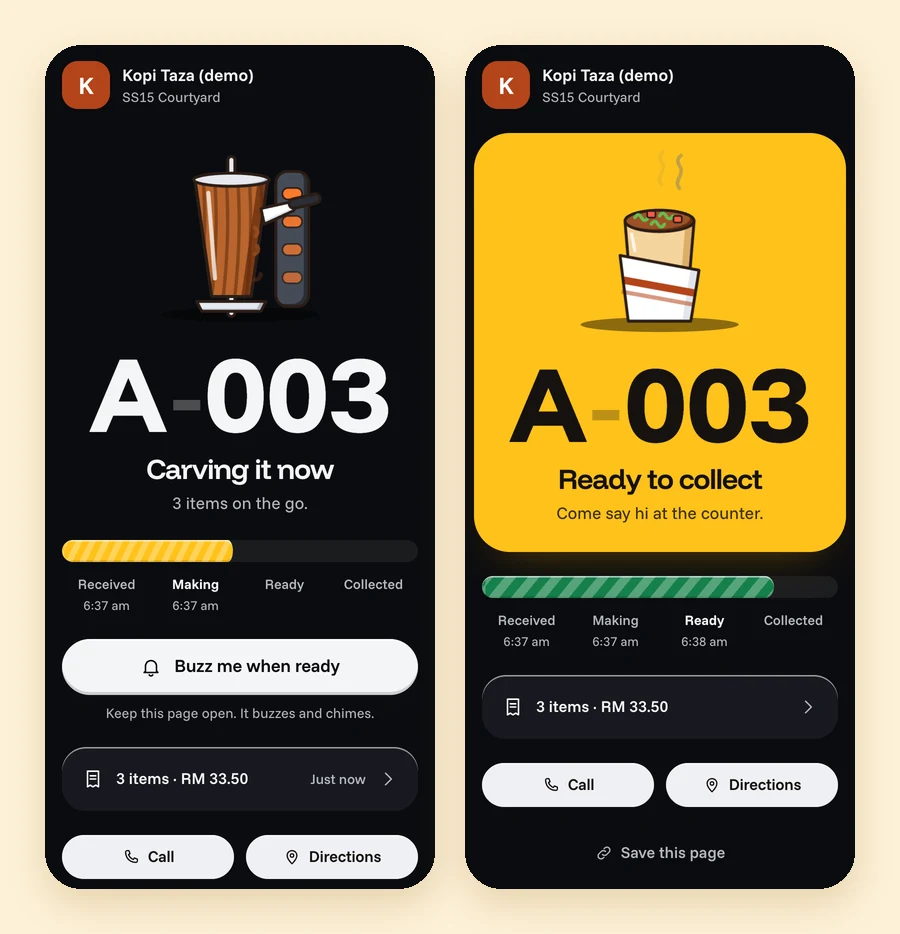
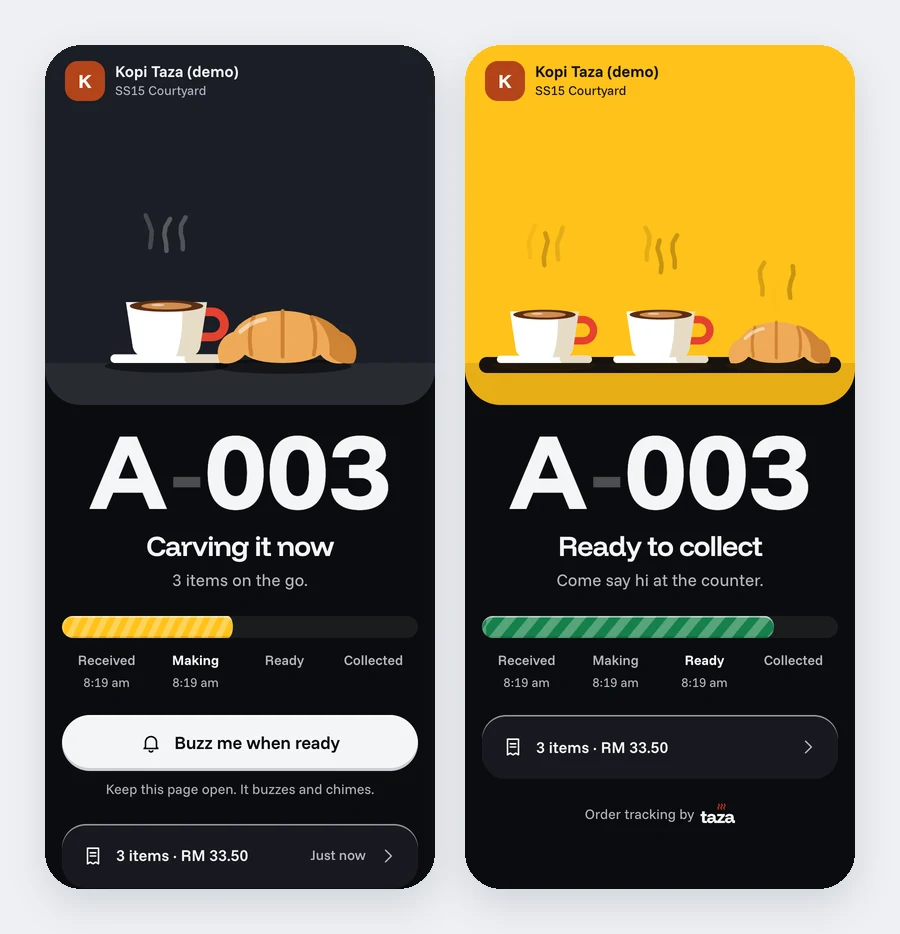
Showcase: the customer's own order on spring physics, 26 food models

diff --git a/README.md b/README.md
@@ -9,15 +9,16 @@
 
 <p align="center">Paused, not deployed. Runs end to end on a local stack. The source is private.</p>
 
-<img src="assets/screens/customer-trio.webp" alt="A customer's order page in three states: Got your order with a coffee grinder, Brewing it now with an espresso machine pouring, and Ready to collect, where the top of the page turns into a big yellow ticket with the number and a steaming cup">
+<img src="assets/screens/customer-trio.webp" alt="A customer's order page in three states: Got your order with their paper ticket on a rail, Brewing it now with their flat white and croissant being made, and Ready to collect with the whole order on a tray and the top of the page turned yellow">
 
 ## What it does
 
 Taza is the first module of a restaurant operating system: **Pickup Lite**.
 
-- **Customers follow their order live.** They scan a QR, open a link or tap an NFC tag and get a big queue number, a scene of their food being made and a progress track that fills: Received, Making, Ready, Collected. The page can buzz them when it's ready, and it keeps working through a bad connection.
-- **Each business type has its own scenes.** A burger place shows a patty on the grill, then the burger assembling. A shawarma place shows the spit being carved, then the wrap. Coffee, bubble tea, bakery, noodles and rice all have their own loops.
-- **Ready is the big moment.** The top of the page turns into a yellow ticket you can read at arm's length, the same yellow the pickup TV uses. The screen stays awake while the order is on its way, because iPhones get no notifications from a web page.
+- **Customers watch their own order.** They scan a QR, open a link or tap an NFC tag. First they see their paper ticket with the items they ordered. Then each item is built piece by piece. When it's ready, the whole order lands on a tray and the top of the page turns yellow, the same yellow the pickup TV uses.
+- **The food is alive.** Every item is a small physical model on real springs. Press it and it squashes, drag it and the layers lean, let go and it wobbles back. Then it goes still, so phones stay cool. People who turn motion off get the finished picture.
+- **26 foods so far, one recipe each.** Burgers, fries, wraps, fried chicken, pizza, sushi, dumplings, noodles, rice plates, soup, salad, coffee, tea, iced drinks, bubble tea, juice, pastries, cake, donuts and ice cream. Anything else shows as a paper bag. The menu uses the same pictures.
+- **One screen, four things.** The order, the number, one bar and one button. Call, directions and saving the page sit inside order details. The screen stays awake while the order is on its way, because iPhones get no notifications from a web page.
 - **Some places don't show the steps.** They can switch to "just when it's ready". Customers then see the same bar filled by honest time since ordering against the usual wait. It never fakes steps or fills up before staff tap Ready.
 - **Staff can take orders by voice.** In capture mode the counter says the order out loud, Taza lists it against the menu, and staff tap Ready when it's done. Orders get a Taza number or keep the business's own POS number.
 - **The business builds its own menu.** Photos, options ("no lettuce"), combos with a chosen drink, and discounted add-ons suggested after an item is added, if the owner switches that on.
@@ -27,17 +28,17 @@ Taza is the first module of a restaurant operating system: **Pickup Lite**.
 
 | Ready-only mode, then collected | Dark surface |
 |---|---|
-| <img src="assets/screens/customer-readyonly-collected.webp" alt="Left: We're on it, with the progress bar filled by time since ordering and Usually 8 min, over a grill scene. Right: Enjoy, collected, with a check badge on the cup"> | <img src="assets/screens/customer-ink.webp" alt="The same page on a near-black surface: Carving it now over a shawarma spit, then Ready to collect with the wrap on the yellow ticket"> |
+| <img src="assets/screens/customer-readyonly-collected.webp" alt="Left: We're on it, with the ticket and a bar filled by time since ordering. Right: Enjoy, collected, with a check badge over the order"> | <img src="assets/screens/customer-ink.webp" alt="The same page on a near-black surface: the order being made, then Ready to collect on the yellow band"> |
 
-<p align="center"><img src="assets/gifs/customer-tour.gif" width="300" alt="Recorded tour: an order goes from Got your order to On the grill now to Ready to collect, the burger stacking and the page turning yellow"></p>
+<p align="center"><img src="assets/gifs/customer-tour.gif" width="300" alt="Recorded tour: two flat whites and a croissant go from the paper ticket, to being made one by one, to landing on the tray as the page turns yellow"></p>
 
-## Every kind of counter
+## Every food on the menu
 
-<img src="assets/screens/scenes.webp" alt="Scene gallery: six business types, each with received, making, ready and collected states">
+<img src="assets/screens/scenes.webp" alt="Gallery of all 26 food models, and each business type's sample order">
 
 ## Setting up a business
 
-<img src="assets/gifs/what-do-you-serve.gif" alt="Recorded tour of the setup step What do you serve: picking Burgers, Shawarma, Bubble tea, Noodles and rice and Bakery, each tile starting its making scene">
+<img src="assets/gifs/what-do-you-serve.gif" alt="Recorded tour of the setup step What do you serve: picking Burgers, Shawarma, Bubble tea, Noodles and rice and Bakery, each with its own food model">
 
 | Each step or just ready | Add your menu | Make the page yours |
 |---|---|---|
@@ -54,7 +55,7 @@ Taza is the first module of a restaurant operating system: **Pickup Lite**.
 - **Backend:** .NET 10, ASP.NET Core minimal APIs as a modular monolith (organization, identity, entitlements, catalog, ordering, tracking, branding, NFC, board, onboarding). EF Core 10 on PostgreSQL 17. SignalR for the kitchen board, the customer page and the pickup display.
 - **Correctness:** transactional outbox with a `FOR UPDATE SKIP LOCKED` dispatcher, idempotency keys on order creation, optimistic concurrency (two staff tapping the same order get a clear 409, not a 500). Combo and add-on prices are calculated on the server only.
 - **Security:** tenant filters from claims, hashed 128-bit tracking tokens that expire, cookie auth with a CSRF header, rate limits on login, public and NFC routes, image byte sniffing on uploads, and a WCAG contrast guard on brand colours.
-- **Web:** Vite + TypeScript with Preact behind `preact/compat`. The customer page ships **40.8 KB gzip** of JavaScript (budget 90 KB). Spring motion is written into CSS `linear()` curves, scenes are SVG and CSS, and motion respects reduced-motion settings.
+- **Web:** Vite + TypeScript with Preact behind `preact/compat`. The customer page ships **45.3 KB gzip** of JavaScript (budget 90 KB). The order scene is SVG driven by one small spring engine (fixed sub-steps, one ticker, paused off screen, stops when nothing moves); UI motion uses the same springs written into CSS `linear()` curves. Reduced motion is respected.
 - **Tests (15 Nov 2026):** 57 unit, 16 integration against a real Postgres, 14 Playwright end-to-end on Chrome including axe accessibility checks, and 5 voice-parser tests. All passing.
 
 ## Status, honestly
@@ -62,12 +63,12 @@ Taza is the first module of a restaurant operating system: **Pickup Lite**.
 - Built and tested locally: setup, counter, voice capture, menu builder, kitchen board, customer page, NFC hand-off.
 - Not deployed. No businesses use it yet.
 - The pickup TV gives Ready most of the screen, moves numbers that have waited over 5 minutes to a "ready a while ago" row instead of dropping them, and says the number out loud after the chime (English only so far).
-- Still to do: more scenes (pizza, desserts, juice, fried chicken, sandwiches), Bahasa Melayu and Chinese, and letting staff put any number on the TV (for example rider codes).
+- Still to do: kitchen stations in the Making stage (grill, espresso machine), a simpler setup flow, Bahasa Melayu and Chinese, and letting staff put any number on the TV (for example rider codes).
 - Voice capture uses the browser's speech service and needs testing on real counter devices.
 
 ## Brand
 
-A counter service bell for the symbol, the "it's ready" sound in any kitchen, and a "taza" wordmark with steam rising off the z. Red `#D62D20` and yellow `#FFC21A`. Titles and numbers are set in Funnel Display, everything else in Funnel Sans. The food art uses one drawing style everywhere: a warm ink outline, flat colours and one shaded side, with no faces.
+A counter service bell for the symbol, the "it's ready" sound in any kitchen, and a "taza" wordmark with steam rising off the z. Red `#D62D20` and yellow `#FFC21A`. Titles and numbers are set in Funnel Display, everything else in Funnel Sans. The food art uses one drawing style everywhere: no outlines, flat colours and one shaded side, with no faces.
 
 ---
 
